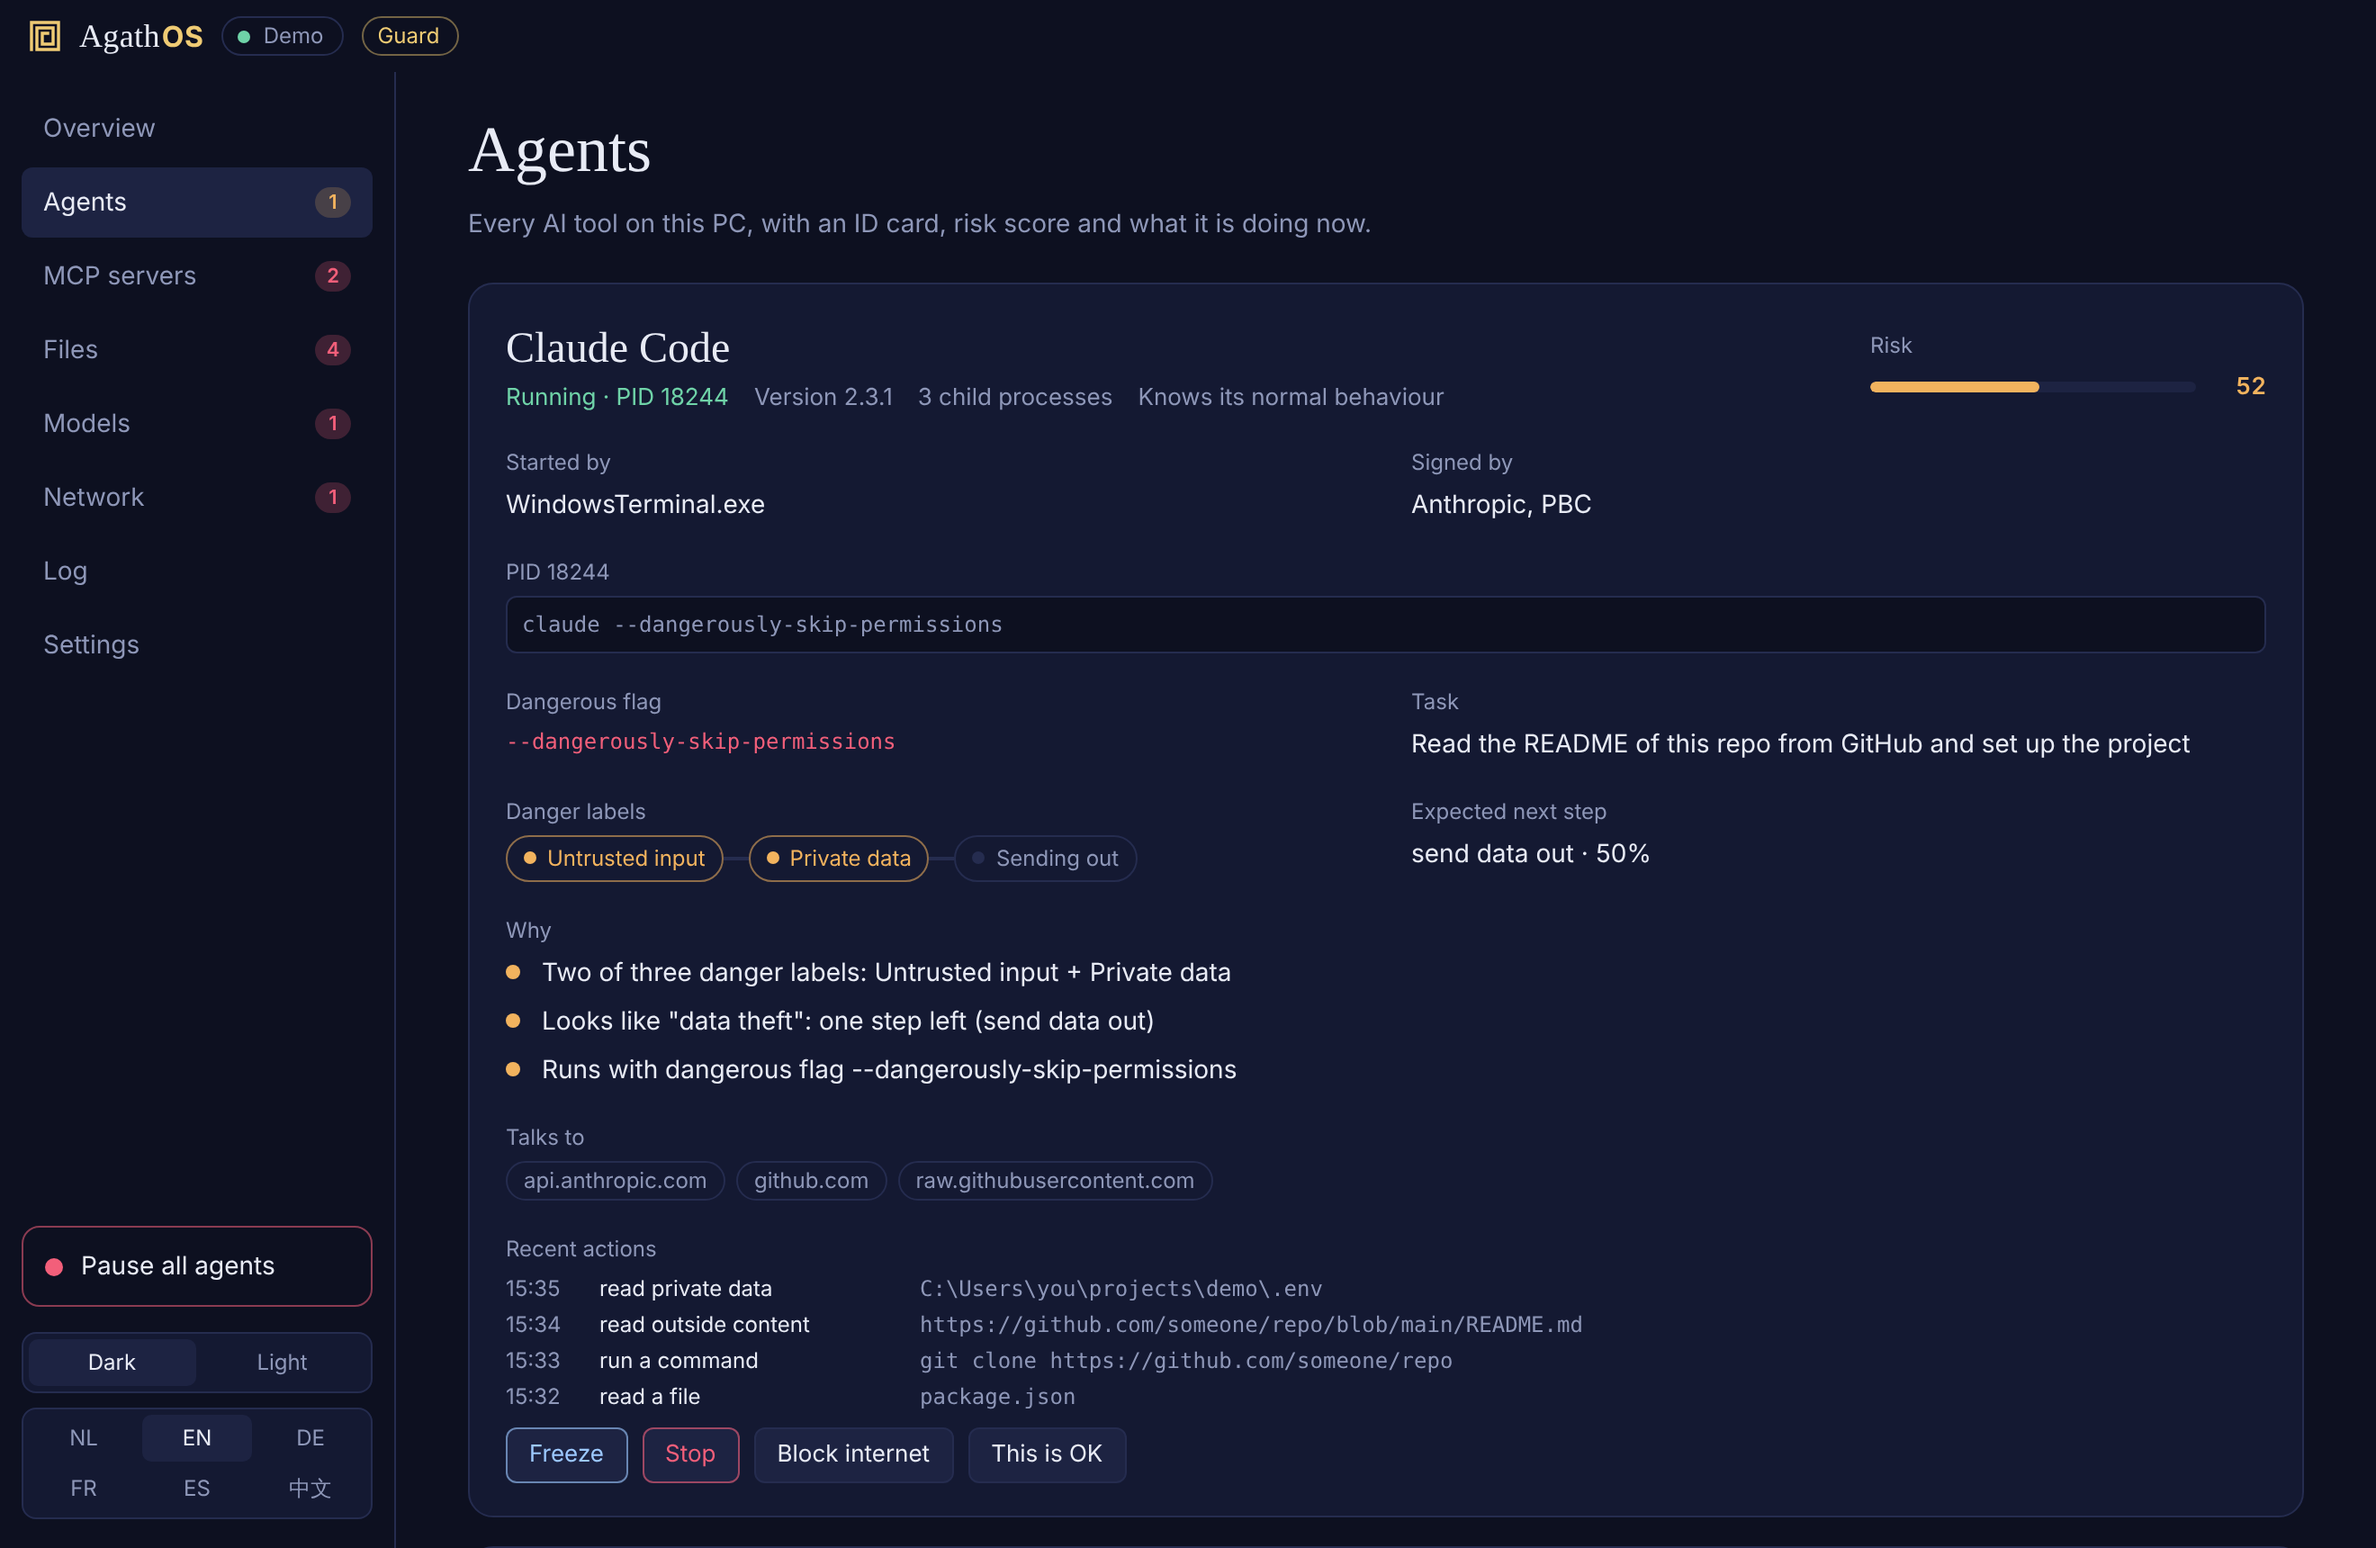
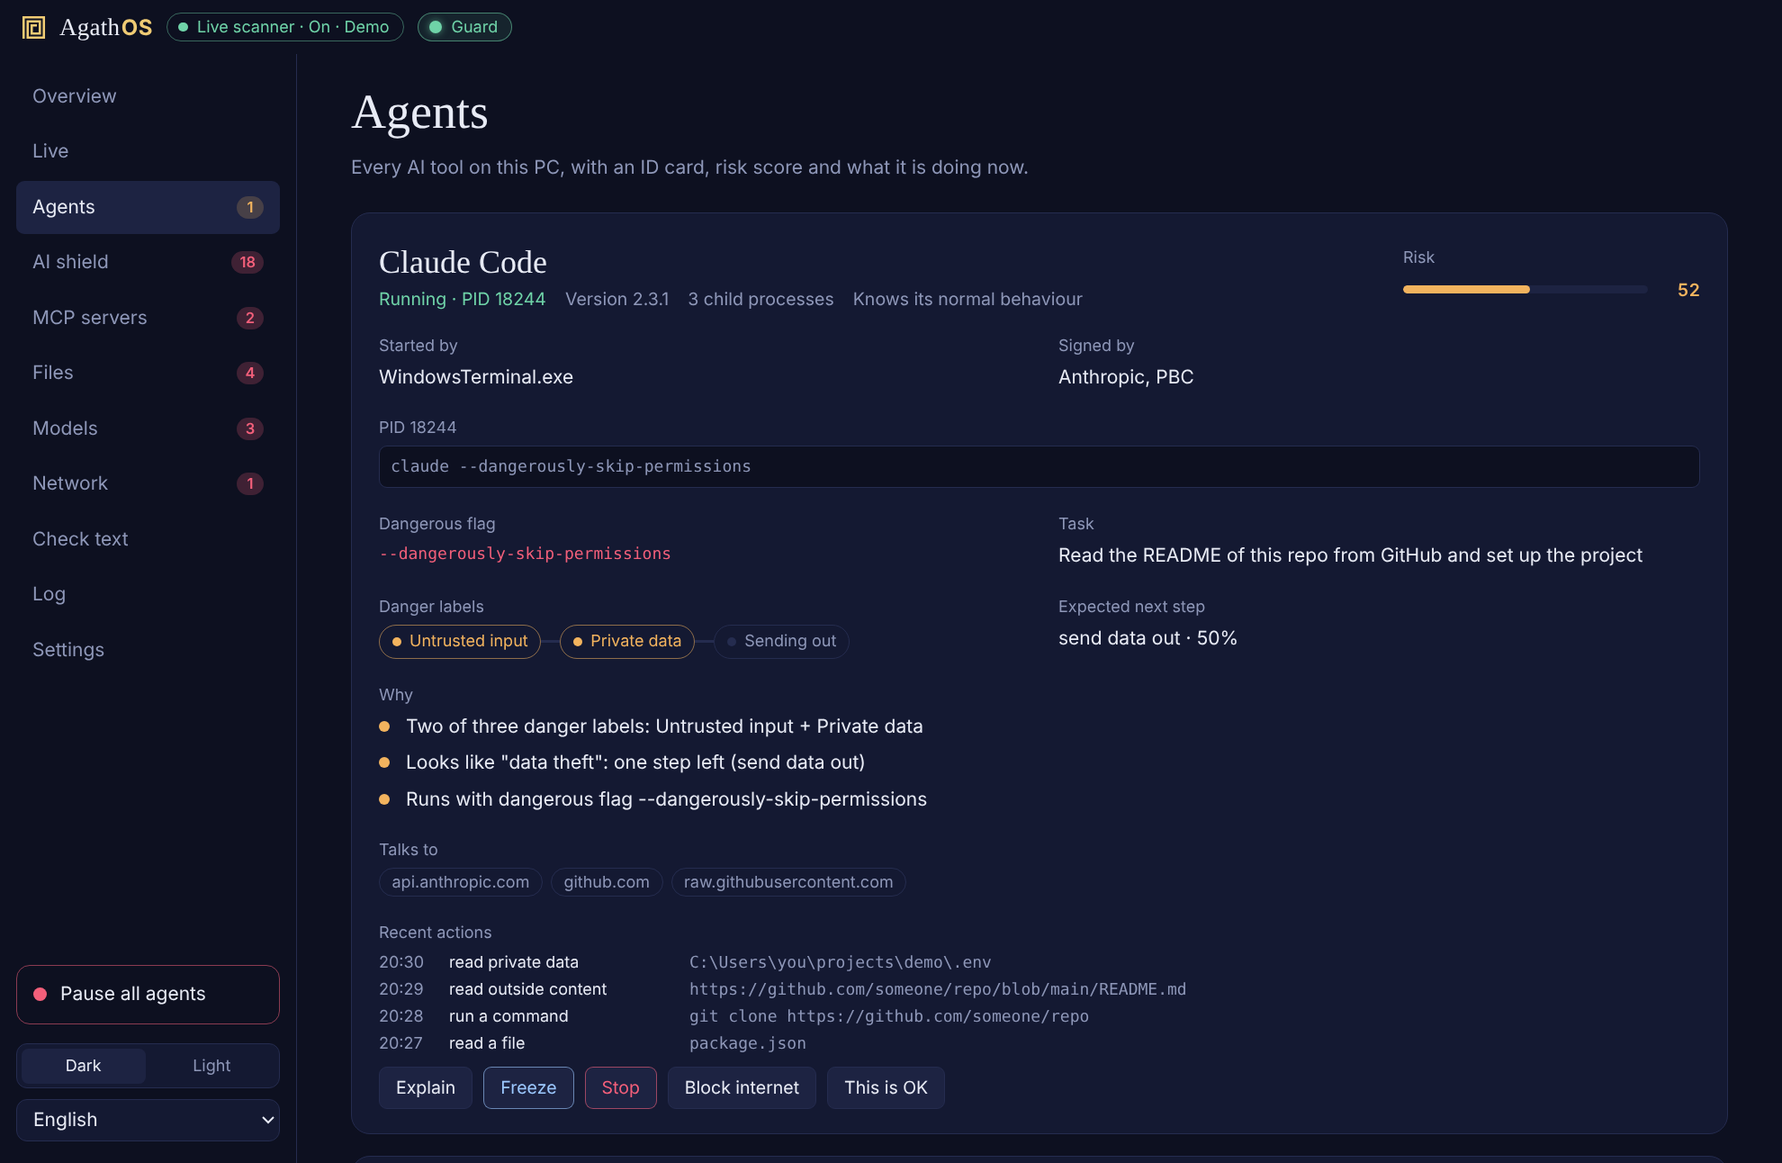
README up to date with 0.13: screenshots of the current app, download and Releases links, the one daily internet call named, six pages in the simple view, tests and CI described

diff --git a/README.md b/README.md
@@ -2,7 +2,14 @@
 
 **The good daemon for your local AI agents.**
 
-![AgathOS](docs/screenshot.png)
+[![Tests](https://github.com/laaielichter/AgathOS/actions/workflows/tests.yml/badge.svg)](https://github.com/laaielichter/AgathOS/actions/workflows/tests.yml)
+
+**[Download the latest version](https://github.com/laaielichter/AgathOS/releases/latest)** for Windows (Intel/AMD and
+ARM) and macOS (Apple chip and Intel). See [Install](#install).
+
+![The AgathOS overview](docs/screenshot.png)
+
+*All screenshots in this README show demo data, not a real PC.*
 
 The ancient Greeks believed every home had an *Agathos Daimon*: a good spirit that
 quietly watched over the house and the people in it. In computing, a *daemon* is a
@@ -10,7 +17,8 @@ program that runs in the background. AgathOS is both: a free, open-source app fo
 that keeps watching the AI agents on your PC, warns you before they do damage, and gives
 you a real stop button.
 
-Nothing leaves your PC. No account, no cloud, no telemetry.
+Nothing leaves your PC. No account, no cloud, no telemetry. The one thing AgathOS asks the internet is whether a
+newer version is on GitHub: once a day, without any data about your PC, and one switch (Settings > Updates) turns it off.
 
 ## Why
 
@@ -50,6 +58,11 @@ words, predicts the next step from the actions it sees, and limits the damage.
 5. **Honesty check**: the agent's transcript (Claude Code, Codex, Grok Build) compared with what Windows saw. "All tests pass" after a failing test run, editing test files during a bug fix, risky commands that never appear in the conversation.
 6. **Optional local AI judge** through Ollama. It only sees a cleaned summary, answers in fixed JSON and can only *raise* a score.
 
+![The ID card of an agent](docs/agent-card.png)
+
+*The ID card of an agent: who started it and who signed it, what it is doing now, why the score is what it is, and the
+buttons to freeze it, stop it or cut it off from the internet.*
+
 **Self-learning, safely.** It learns only from clean sessions or sessions you approved, never while a session read untrusted content, a little at a time, with versions you can roll back. Hard rules are never learned.
 
 **Fix it.** After every scan AgathOS lists what it found and offers one button: *Fix all*.
@@ -61,7 +74,7 @@ what is going on and what to do. *In depth* shows the evidence (paths, commands,
 text, process tree, signer), how the attack works, the harmless and the harmful explanation,
 how sure AgathOS is, the matching MITRE ATT&CK / ATLAS technique and the steps to fix it.
 
-![Explain: analysis of a finding](docs/analysis.png)
+![Explain, in depth: a finding about a look-alike of an AI address](docs/analysis.png)
 
 | Finding | What "Fix it" does | Undo |
 |---|---|---|
@@ -95,6 +108,10 @@ AgathOS Guard on, every new program and every new address lookup of an agent sho
 without it, programs and connections are checked every few seconds. The *Guard* label at the top
 turns green when Guard is installed and running.
 
+![The Live page](docs/live.png)
+
+*The Live page: what happens on this PC right now, in plain words.*
+
 **Grok.** *Grok Build* (the `grok` command of xAI) is recognised on Windows and on a Mac, where the
 system shows the file behind the `grok` link instead of the name. AgathOS reads its settings and
 MCP servers (`config.toml`, also in a project's `.grok` folder), its hooks, its rules and skills,
@@ -105,6 +122,10 @@ cloud computer, so AgathOS only sees the app, its network traffic and the files 
 this computer, and says so on its card.
 
 **Stealth (extra look, off by default).** Settings > View > Theme offers a third look next to Dark and Light: an operations console in pure black for OLED screens, thin steel lines, one cyan accent, code type and small marks in the corners of the panels. A ring of ticks turns around the status ring while a scan runs; nothing else moves for show. The logo keeps its own gold, the pages and functions are the same, and the small window next to the clock follows. Dark and Light stay in the side bar, and once Stealth is on it shows there too, so the way back is one click. It brings no fonts of its own (it uses the code font your system has), loads nothing from the internet, keeps the letters of Arabic, Thai, Hindi, Bengali and the East Asian languages unspaced, and its colours are tested for contrast on every ground. The look is our own and uses no logo, font or code from anyone else.
+
+![The overview in the Stealth look](docs/stealth.png)
+
+*The overview in the Stealth look.*
 
 **Mini pop-up (Windows).** Click the AgathOS icon next to the clock and a small window opens
 right above it: the six watchers, the status, *Fix all*, *Scan now*, *Pause all agents*, the
@@ -146,6 +167,15 @@ run code, rules files or prompts with hidden instructions, and fake installers: 
 or similar named after a tool that is not installed with a file (Claude Code, OpenClaw, Gemini CLI,
 Codex CLI) is an alarm, a zip of it is a warning. Fake download pages for these tools spread
 password stealers this way. It only warns; it never opens or runs the file.
+
+**AI shield.** One page with four tabs, each a check of its own with its own switch in Settings: *Links* (where
+programs send their prompts and keys), *Boards* (places where agents take orders from or leave messages on), *Model X-ray*
+(what is inside the models you download) and *Copies* (anything that can copy an AI or the text that steers it). The four
+texts below tell what each one looks for.
+
+![The AI shield, on the Boards tab](docs/ai-shield.png)
+
+*The AI shield, on the Boards tab.*
 
 **AI shield (AI links).** Attacks on AI often start at the place where a program sends its prompts
 and its key. AgathOS reads the settings files and variables that hold such addresses (the global
@@ -227,6 +257,10 @@ is marked as data: hidden characters are removed, text is cut short and the sent
 repeated. The plugin carries the scanners with it and works alone; it cannot start a program or write a file (a test
 checks it). See [docs/agents.md](docs/agents.md) and [plugins/agathos](plugins/agathos).
 
+![Settings > Agent access](docs/agent-access.png)
+
+*Settings > Agent access: a key for each program, taken back in one click.*
+
 **Calm notifications.** No notification circus: by default only danger pops up (attention goes to
 the log and the tray dot), what happens at the same time comes as one notification, the same
 finding is not repeated within 6 hours, at most 3 per hour, and nothing pops up while the
@@ -246,26 +280,29 @@ tray menu. A new version shows as a banner and as a window with an *Update now* 
 the installed app downloads the new installer, checks its SHA-256 against the checksum GitHub
 publishes, and only then installs it and starts again. By default it does this by itself, but only
 at a quiet moment: no agent active, no scan running, the window not in use (otherwise it tries
-again 20 minutes later), and after a calm notification. Switch it off at Settings > Updates. On a
+again 20 minutes later), and after a calm notification. Two switches at Settings > Updates:
+*Check for a new version every day* and, on Windows, *Update by itself at a quiet moment*. On a
 Mac, and when "update by itself" is off, AgathOS shows one calm pop-up per new version, and the
-button opens the download page.
-
-**Mini pop-up (Windows).** Click the AgathOS icon next to the clock and a small window opens
-right above it: the six watchers, the status, *Fix all*, *Scan now*, *Pause all agents*, the
-live scanner switch and the agents running now. Double-click the icon for the full window,
-right-click for the menu.
+button opens the download page. With the daily check switched off AgathOS does not go to the
+internet at all, until you press *Check now*.
 
 **Advanced or simple.** The advanced view (default) shows every score, process and
-prediction. The simple view keeps four pages and plain words.
+prediction, on eleven pages. The simple view keeps six pages (Overview, Agents, AI shield,
+Check text, Log, Settings) and plain words.
 
 **Welcome screen.** The first start asks for your language, the view, the live scanner,
-starting with Windows, deep protection (AgathOS Guard) and auto-fix.
+starting with Windows (on a Mac: at login), deep protection (AgathOS Guard, Windows only) and
+auto-fix. Closing it keeps the safe defaults; *Settings > View > Run setup again* opens it again.
 
 **Also:** a tamper-evident log (hash chain), notifications, tray icon, start with Windows, 20 languages (the top 10 world languages English, 中文, हिन्दी, Español, العربية, Français, বাংলা, Português, Русский and Bahasa Indonesia, plus 日本語, 한국어, Deutsch, Nederlands, Italiano, Türkçe, Polski, Tiếng Việt, Українська and ไทย; Arabic right-to-left), dark and light mode (plus the extra Stealth look), and a local API on `127.0.0.1:47612` for hooks, AI programs and add-ons.
 
 ## Install
 
-**Installer.** Run `AgathOS-Setup-<version>.exe`. Pick a language, choose the folder, and
+Every [release](https://github.com/laaielichter/AgathOS/releases/latest) has the installers attached:
+`AgathOS-Setup-<version>.exe` (Windows, Intel/AMD), `AgathOS-Windows-ARM64-Setup-<version>.exe` (Windows on ARM),
+`AgathOS-<version>-arm64.dmg` (Mac, Apple chip) and `AgathOS-<version>-x64.dmg` (Mac, Intel).
+
+**Installer.** Download and run `AgathOS-Setup-<version>.exe`. Pick a language, choose the folder, and
 AgathOS lands on your desktop and in the Start menu, then starts with the welcome screen.
 No admin rights needed. The installer is not code-signed yet, so Windows SmartScreen may say
 "Windows protected your PC": click *More info* and *Run anyway*.
@@ -289,9 +326,10 @@ whether AgathOS can read your Documents, Desktop and Downloads folders; that is 
 instruction files, MCP settings and keys. From source: `npm install` and `npm start`.
 Build the disk images yourself on a Mac with `npm run dist:mac`.
 
-> **Mac testers wanted.** The Mac version is built and its tests run automatically on macOS,
-> but nobody has clicked through it on a real Mac yet. If something does not work or looks
-> wrong, please open an issue with a screenshot and your macOS version.
+> **Mac testers wanted.** The Mac version is built on macOS, its tests run there, and the finished Apple-chip app is
+> started and tried out on a Mac of GitHub (it has to find eight planted bad files; the Intel build is built there
+> but not started). But nobody has clicked through it on a real Mac yet. If something does not work or looks wrong,
+> please open an issue with a screenshot and your macOS version.
 
 After the first scan AgathOS keeps watching from the system tray.
 
@@ -385,7 +423,17 @@ All 20 languages are complete. Native speakers: corrections are very welcome, th
 ## Tests
 
 `node test/run-tests.js` runs the scanners, the intent engine, the honesty check, the
-log chain and the fix/undo steps on any OS.
+log chain, the fix/undo steps, Model X-ray, Copy Guard, the plugin and the MCP server, and checks that
+every language has every text. It is plain Node: nothing to install, any OS. On Windows and a Mac it also asks the
+real system for programs and connections (`test/live-os.js`).
+
+`node test/smoke.js <built app>` starts the finished app with a throw-away home folder that holds eight planted bad
+files (hidden text, a worm-like install script, a malicious MCP server, a look-alike AI address, a message board, a
+poisoned model file and more) and checks that the app finds them. GitHub Actions runs the tests on Windows (Intel/AMD
+and ARM), macOS and Linux for every change, and runs this smoke test on the finished Windows apps (Intel/AMD and ARM) and
+on the finished Mac app for the Apple chip (see Actions).
+`node test/lan-scan-sim.js` tries the worm watch safely, and `node test/bench-os.js` shows how long the watchers take
+on your system.
 
 ## Security
 
